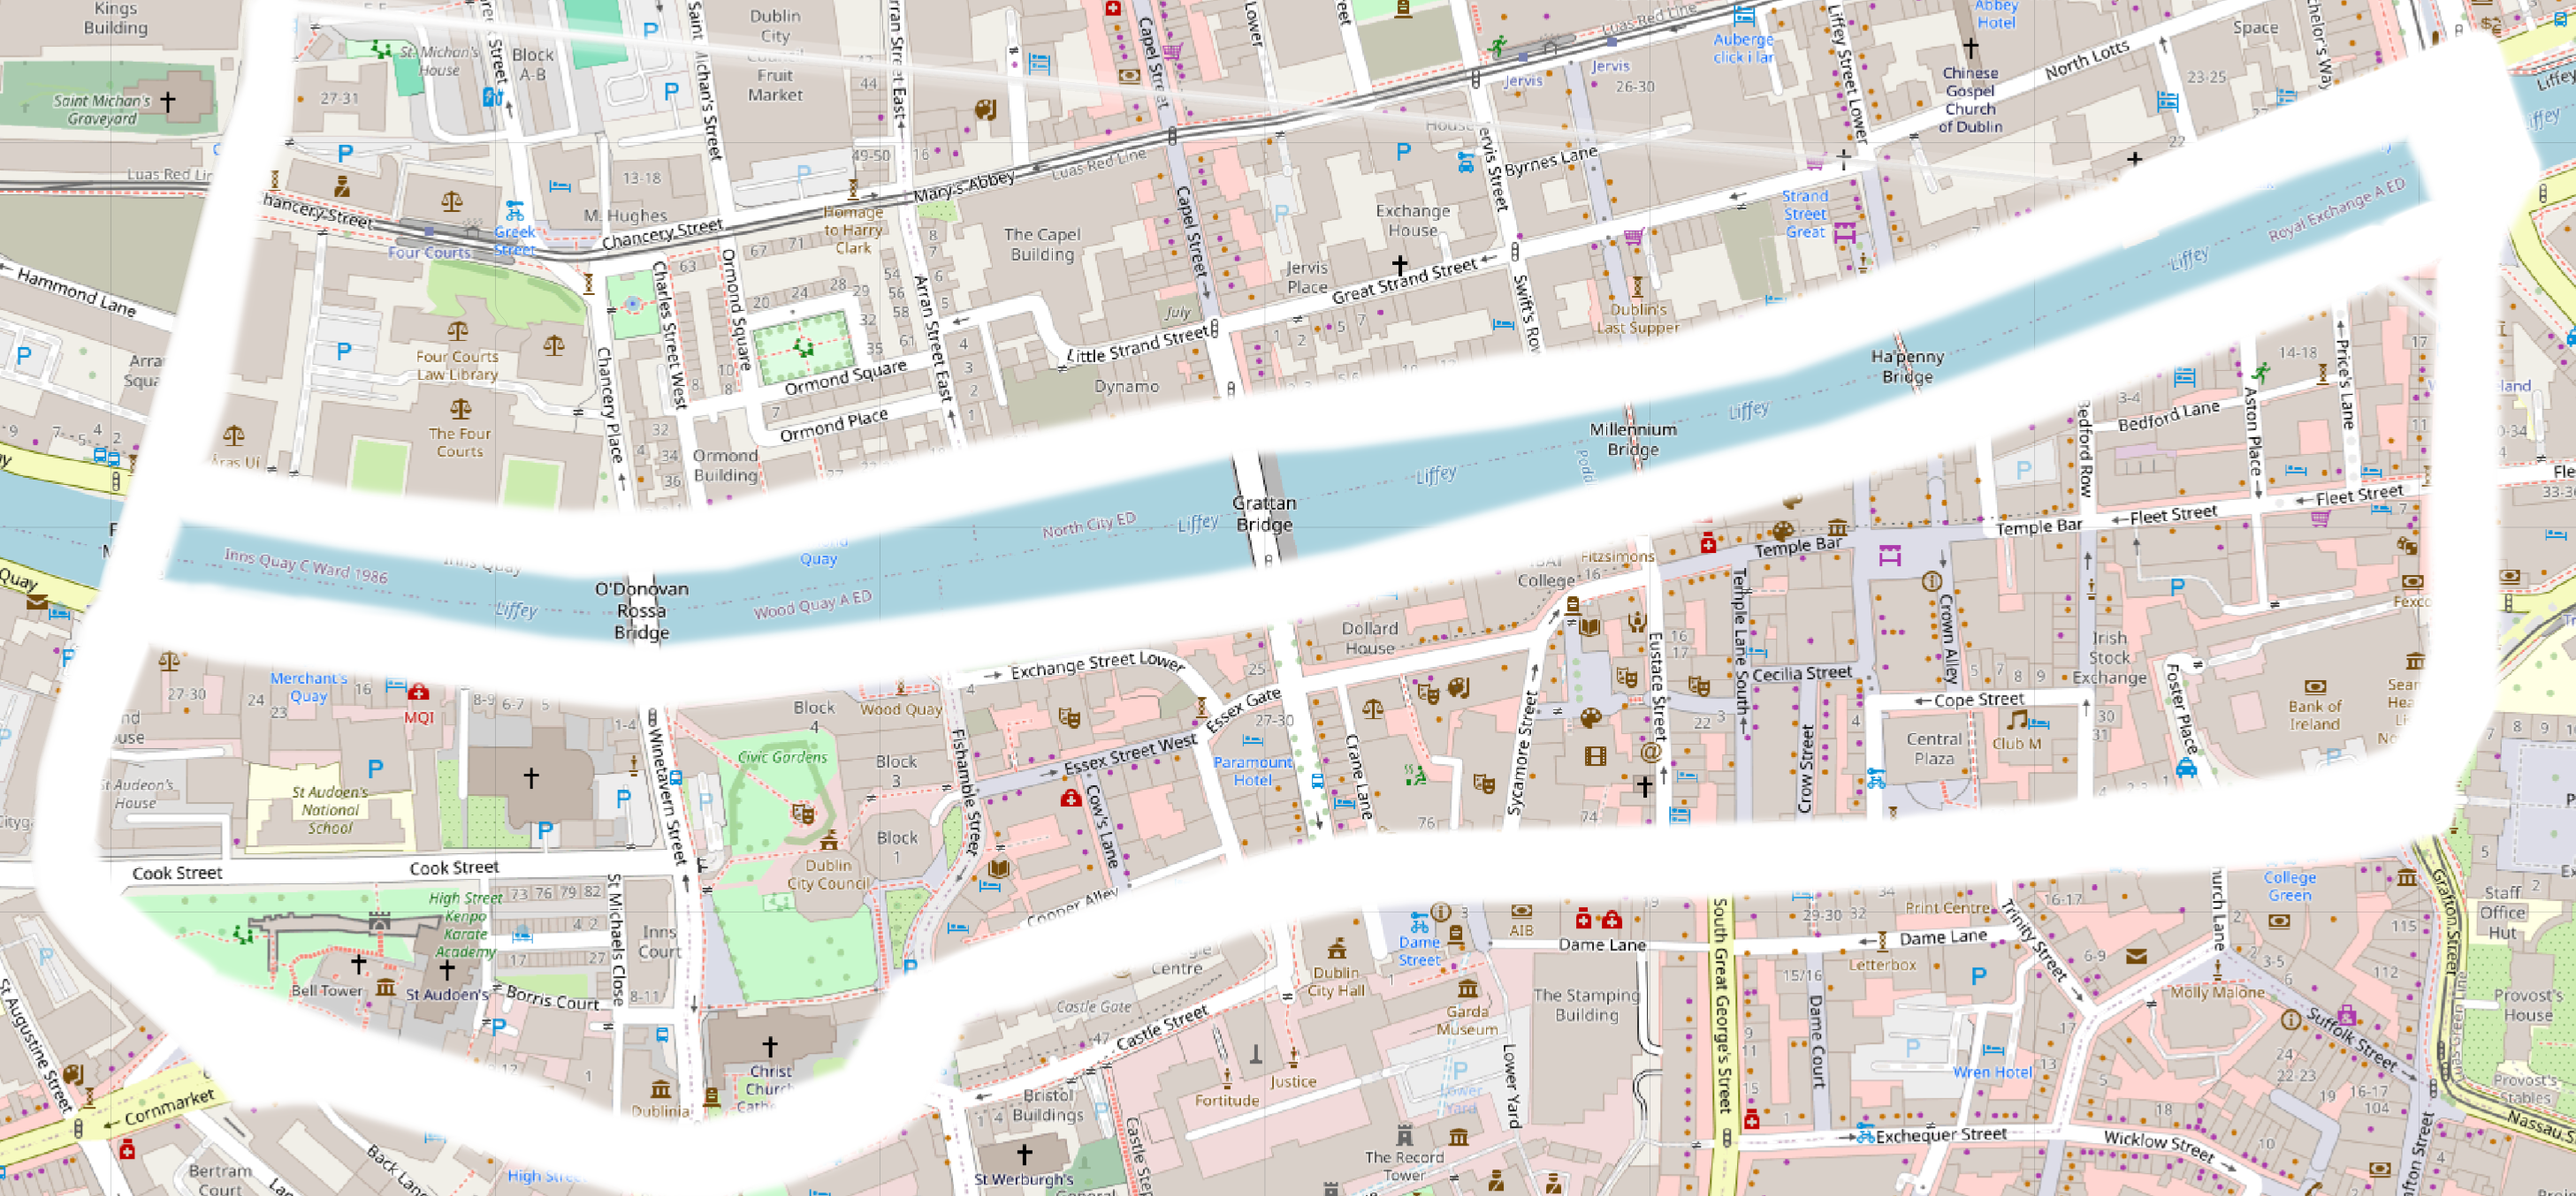
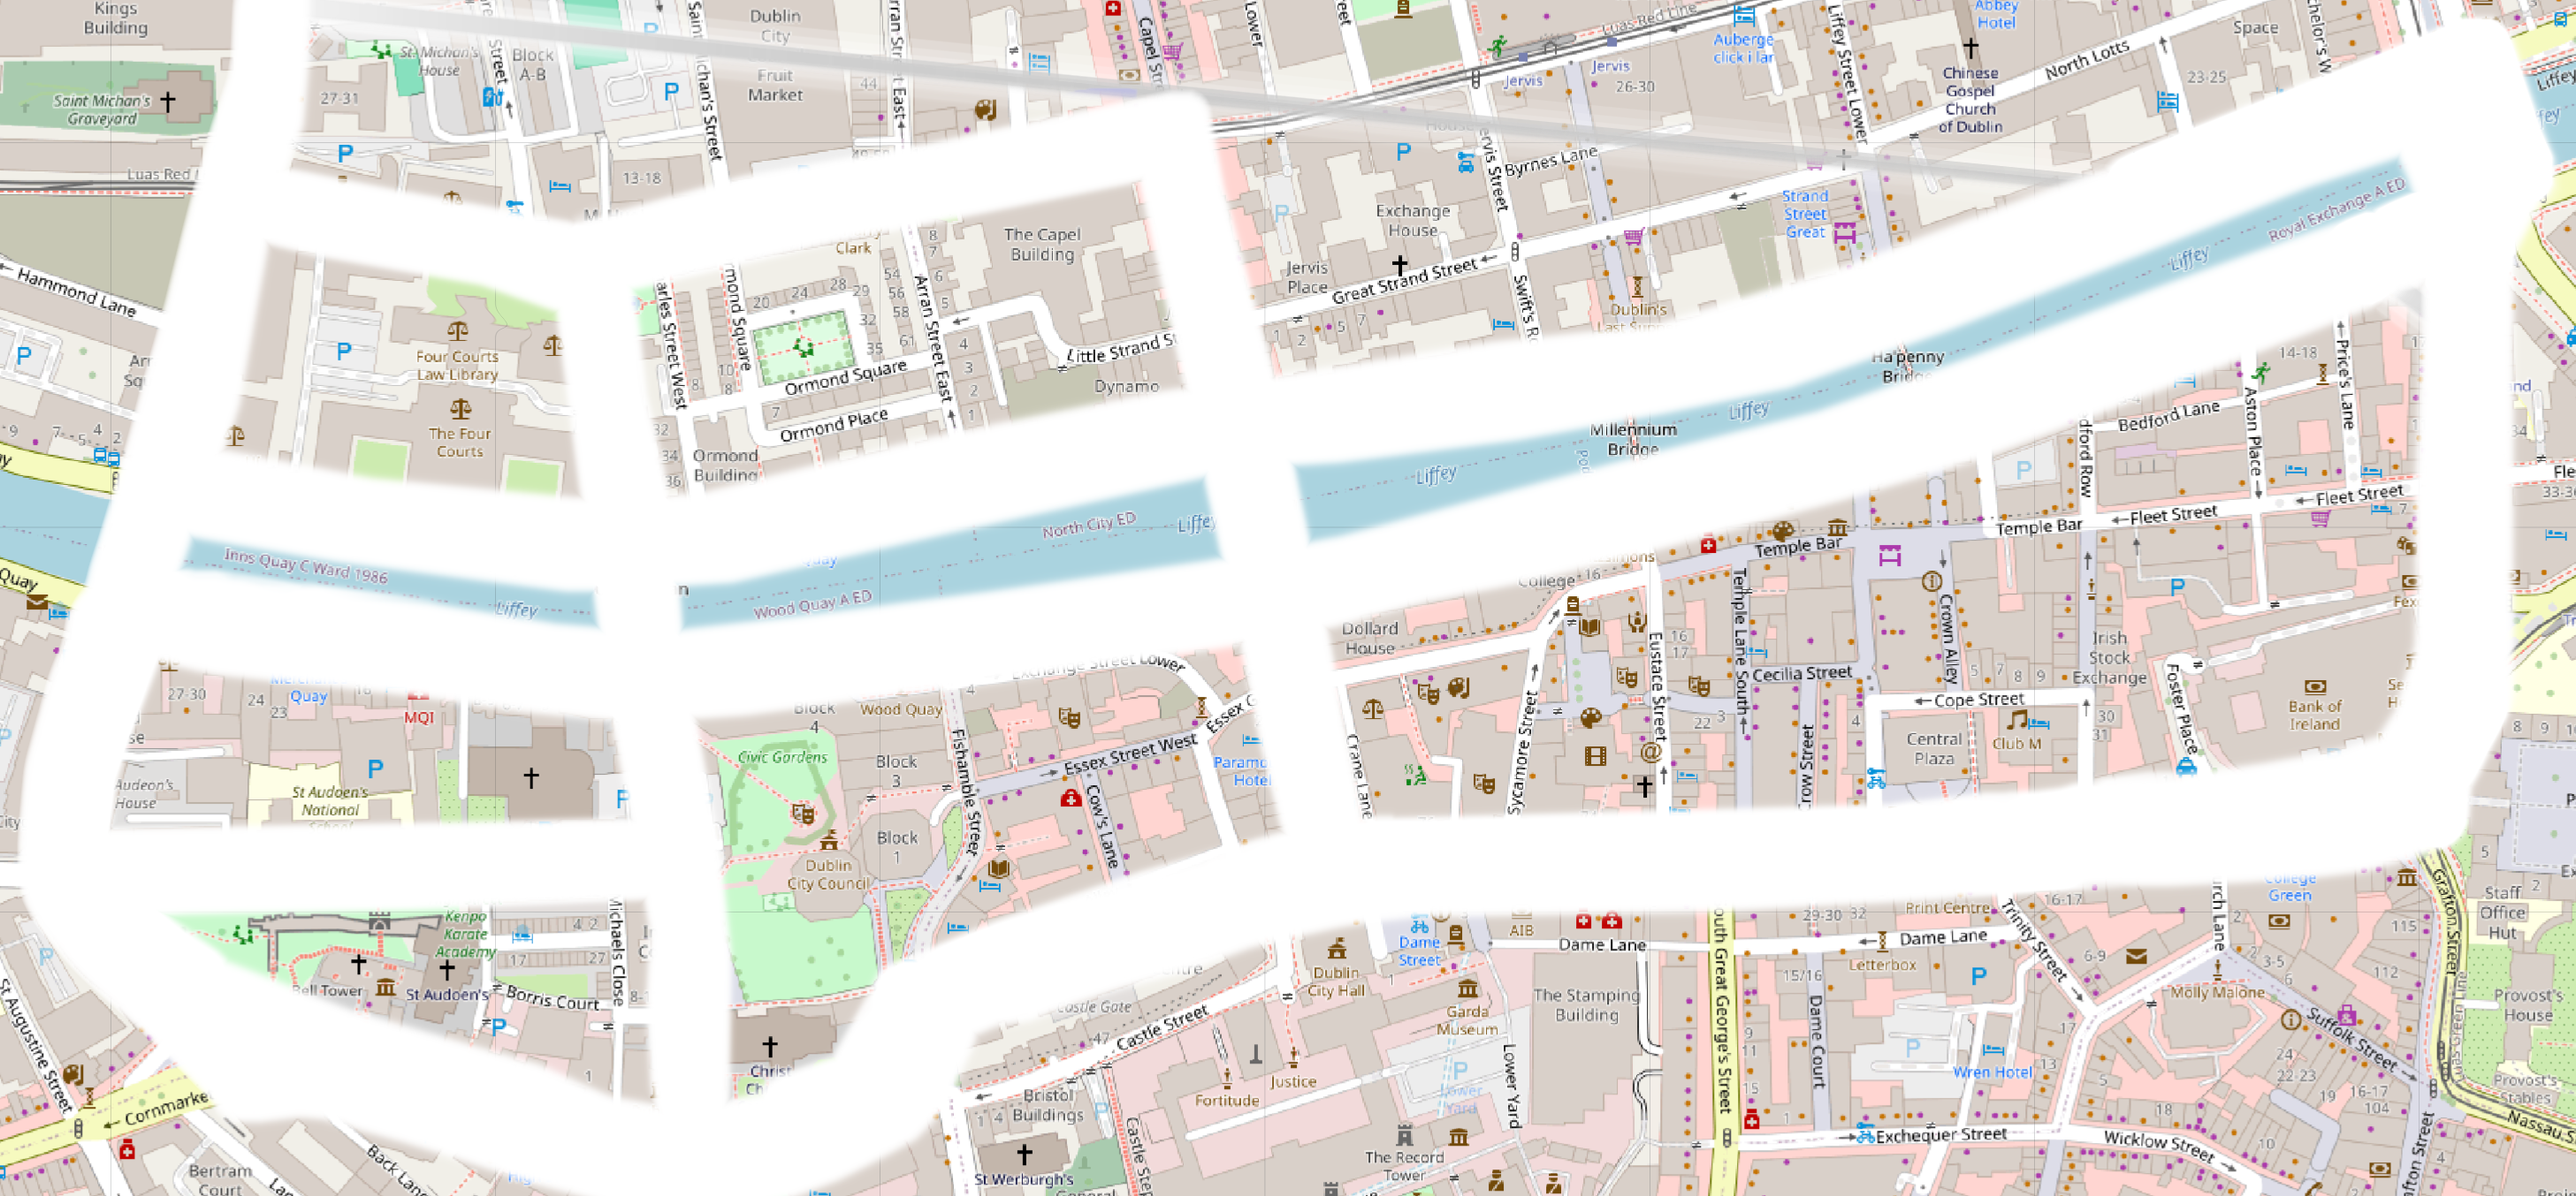
Perfected the A* pathfinding algorithm
- Added a new path (shaded in blue) which offers a faster route.
- The path has a significantly lower cost, so the A* algorithm now prioritizes it

diff --git a/Environment/Grid.py b/Environment/Grid.py
@@ -11,10 +11,8 @@ from utils import manhattan_distance
 class Grid:
     OBSTACLE = scale_image(pygame.image.load("imgs/obstacle8.png"), 0.02)
     OBSTACLE_MASK = pygame.mask.from_surface(OBSTACLE)
-    CELL_SIZE=1
+    CELL_SIZE=6
     def __init__(self, width, height,track):
-        # self.width = width
-        # self.height = height
         self.grid = [
             [GridNode(i, j, Color.RED.value) for j in range(0, height, Grid.CELL_SIZE)]
             for i in range(0, width, Grid.CELL_SIZE)
@@ -74,7 +72,7 @@ class Grid:
                 current_grid_node = self.grid[i][j]
                 current_grid_color = track_surface.get_at((x, y))
 
-                if current_grid_color != Color.BLACK.value:
+                if current_grid_color != Color.BLACK.value and current_grid_color != Color.BLUE.value :
                     continue
 
                 # Position the car's top-left so that its center is at (x, y)
@@ -88,7 +86,7 @@ class Grid:
                 if not collision:
                     current_grid_node.is_road = True
                     current_grid_node.is_blocked = False
-                    current_grid_node.color = Color.BLACK.value
+                    current_grid_node.color = current_grid_color
 
         return self.grid
 
@@ -169,10 +167,9 @@ class Grid:
                     current = came_from[current]
                 path.append(start)
                 pixel_path = [(x * Grid.CELL_SIZE, y * Grid.CELL_SIZE) for (x, y) in path[::-1]]
-                return pixel_path
+                return pixel_path,current_cost
 
-            # for dx, dy in [(-1, 0), (1, 0), (0, -1), (0, 1),  # Up, Down, Left, Right
-            #                    (-1, -1), (-1, 1), (1, -1), (1, 1)]:
+
             for dx, dy in [(-1, 0), (1, 0), (0, -1), (0, 1)]:  # 4 directions only
                 neighbor = (current[0] + dx, current[1] + dy)
                 if 0 <= neighbor[0] < self.width and 0 <= neighbor[1] < self.height:

diff --git a/Environment/GridNode.py b/Environment/GridNode.py
@@ -2,7 +2,7 @@ from Environment.Color import Color
 from vehicles.Vehicle import Vehicles
 
 class GridNode:
-    max_speed = 60
+    max_speed = 65
     def __init__(self,x, y, color,is_road=False,is_blocked=True):
         self.x = x
         self.y = y
@@ -13,15 +13,15 @@ class GridNode:
 
     def get_speed_limit(self, vehicle: Vehicles):
         if self.color==Color.BLACK.value:
-            return vehicle.value.high_way_max_speed
-        else:
             return vehicle.value.street_max_speed
+        else:
+            return vehicle.value.high_way_max_speed
 
     def get_node_weight(self, vehicle: Vehicles):
         if self.color==Color.BLACK.value:
-            return GridNode.max_speed-vehicle.value.high_way_max_speed
-        else:
             return GridNode.max_speed-vehicle.value.street_max_speed
+        else:
+            return GridNode.max_speed-vehicle.value.high_way_max_speed
 
 # if __name__=="__main__":
 #     grid_node = GridNode(1,2,(0, 0, 0,255))

diff --git a/vehicles/Vehicle.py b/vehicles/Vehicle.py
@@ -3,5 +3,5 @@ from collections import namedtuple
 
 VehicleInfo = namedtuple('VehicleInfo', ['name', 'high_way_max_speed', 'street_max_speed'])
 class Vehicles(Enum):
-    CAR=VehicleInfo("car",60,40)
+    CAR=VehicleInfo("car",60,65)
     BIKE=VehicleInfo("bike",20,10)
